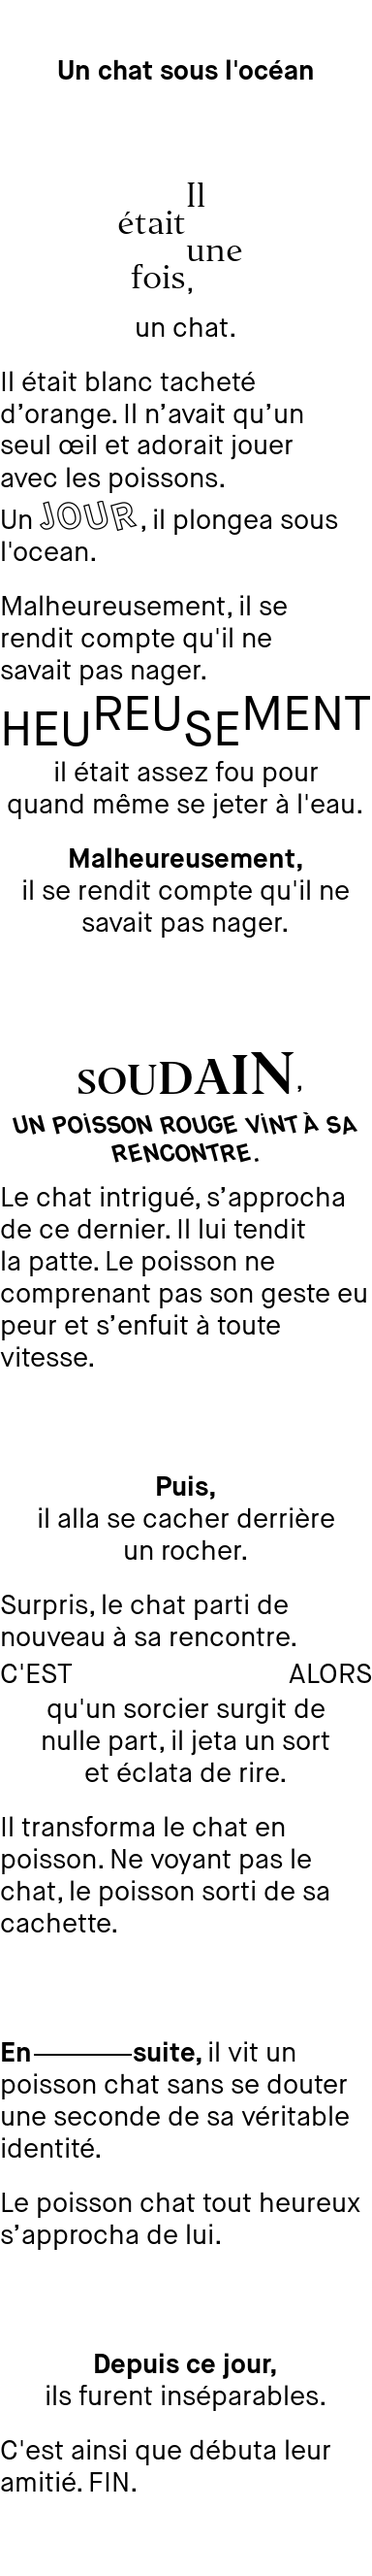
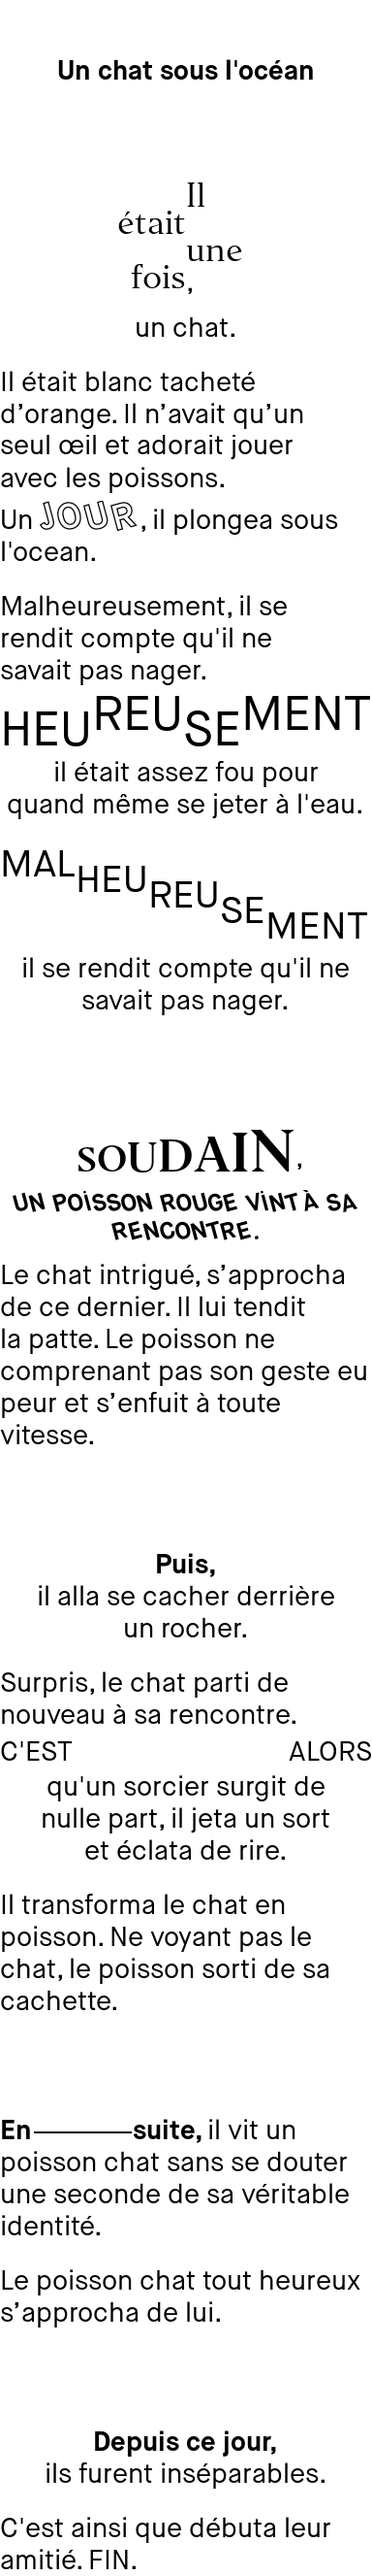
feat(form) : decrease syllables effect + get font size

Changed region(s): [[0.0, 0.309, 1.0, 1.0], [0.0, 0.309, 0.125, 0.4017]]

diff --git a/effects.py b/effects.py
@@ -257,49 +257,83 @@ def paragraph_after_effect(first_sentence, first_line_width, left, top, spacing,
     return effect_top
 
 
-def vertical_mirror(width, start_sentence, font, font_size, spacing, text_color, top, context):
+def vertical_syllable_mirror(width, start_sentence, font, font_size, spacing, text_color, top, context):
+    
+    top_offset = spacing / 2
+    top += spacing - 15
+    left = 0
+    height = 0
 
     if start_sentence == "Heureusement":
-        top_offset = spacing / 2
-        top += spacing - 15
-        left = 0
-        height = 0
         syllables = ["Heu", "reu", "se", "ment"]
-        target_font_size = font_size
+        
                         
-        # find the font size
-        while left <= width:
-                            
-            for index, syllable in enumerate(syllables):
-                
-                text_font = ImageFont.truetype(font, target_font_size, encoding="unic")
-                word = syllable.upper()
-                syllable_width, syllable_height = text_font.getsize(word)
-                
-                left += syllable_width
-            target_font_size += 1
-                            
-            if left <= width: # init until condition is fulfil
-                left = 0
+    # find the font size
+    target_font_size = get_font_size_syllables(width, syllables, font, font_size)
                                    
-        # draw the text
-        left = 0
-        for index, syllable in enumerate(syllables):
+    # draw the text
+    for index, syllable in enumerate(syllables):
             
-            text_font = ImageFont.truetype(font, target_font_size - 2, encoding="unic")
+        text_font = ImageFont.truetype(font, target_font_size - 2, encoding="unic")
+        word = syllable.upper()
+        syllable_width, syllable_height = text_font.getsize(word)
+        if index % 2 == 0:
+            context.text((left, top), word, fill=text_color, font=text_font)
+        else:
+            context.text((left, top - top_offset), word, fill=text_color, font=text_font)
+                            
+        left += syllable_width
+        height = syllable_height
+        
+    return height
+
+def decrease_syllale(width, start_sentence, font, font_size, spacing, text_color, top, context):
+    
+    effect_top = top
+    left = 0
+    height = 0
+
+    if start_sentence == "Malheureusement":
+        syllables = ["Mal", "heu", "reu", "se", "ment"]
+        
+    # find the font size
+    target_font_size = get_font_size_syllables(width, syllables, font, font_size)
+                                   
+    # draw the text
+    for index, syllable in enumerate(syllables):
+            
+        text_font = ImageFont.truetype(font, target_font_size - 2, encoding="unic")
+        word = syllable.upper()
+        syllable_width, syllable_height = text_font.getsize(word)
+        context.text((left, effect_top), word, fill=text_color, font=text_font)
+        
+        effect_top += spacing / 2          
+        left += syllable_width
+        height += spacing / 2
+        
+    return height
+    
+#get the font size of syllables to fulfil the paper width
+def get_font_size_syllables(width, syllables, font, font_size):
+    left = 0
+    target_font_size = font_size
+    
+    while left <= width:
+                            
+        for index, syllable in enumerate(syllables):
+                
+            text_font = ImageFont.truetype(font, target_font_size, encoding="unic")
             word = syllable.upper()
             syllable_width, syllable_height = text_font.getsize(word)
-            if index % 2 == 0:
-                context.text((left, top), word, fill=text_color, font=text_font)
-            else:
-                context.text((left, top - top_offset), word, fill=text_color, font=text_font)
-                            
+                
             left += syllable_width
-            height = syllable_height
-        
-        return height
+        target_font_size += 1
+                            
+        if left <= width: # init until condition is fulfil
+            left = 0
             
-                    
+    return target_font_size
+
 def add_image(url, add, top = 0, img_bg = False):
     custom_img = Image.open(url)
     if add == True : img_bg.paste(custom_img, (0, top))

diff --git a/storydesign.py b/storydesign.py
@@ -139,7 +139,11 @@ class StoryDesign():
                         top += height
                     
                     elif start_sentence == "Heureusement":
-                        height = effects.vertical_mirror(self.width, start_sentence, maison_neue_book, self.font_size, spacing, self.text_color, top, context)
+                        height = effects.vertical_syllable_mirror(self.width, start_sentence, maison_neue_book, self.font_size, spacing, self.text_color, top, context)
+                        top += height
+                        
+                    elif start_sentence == "Malheureusement":
+                        height = effects.decrease_syllale(self.width, start_sentence, maison_neue_book, self.font_size, spacing, self.text_color, top, context)
                         top += height
                          
 ##                    elif start_sentence == "Puis":
